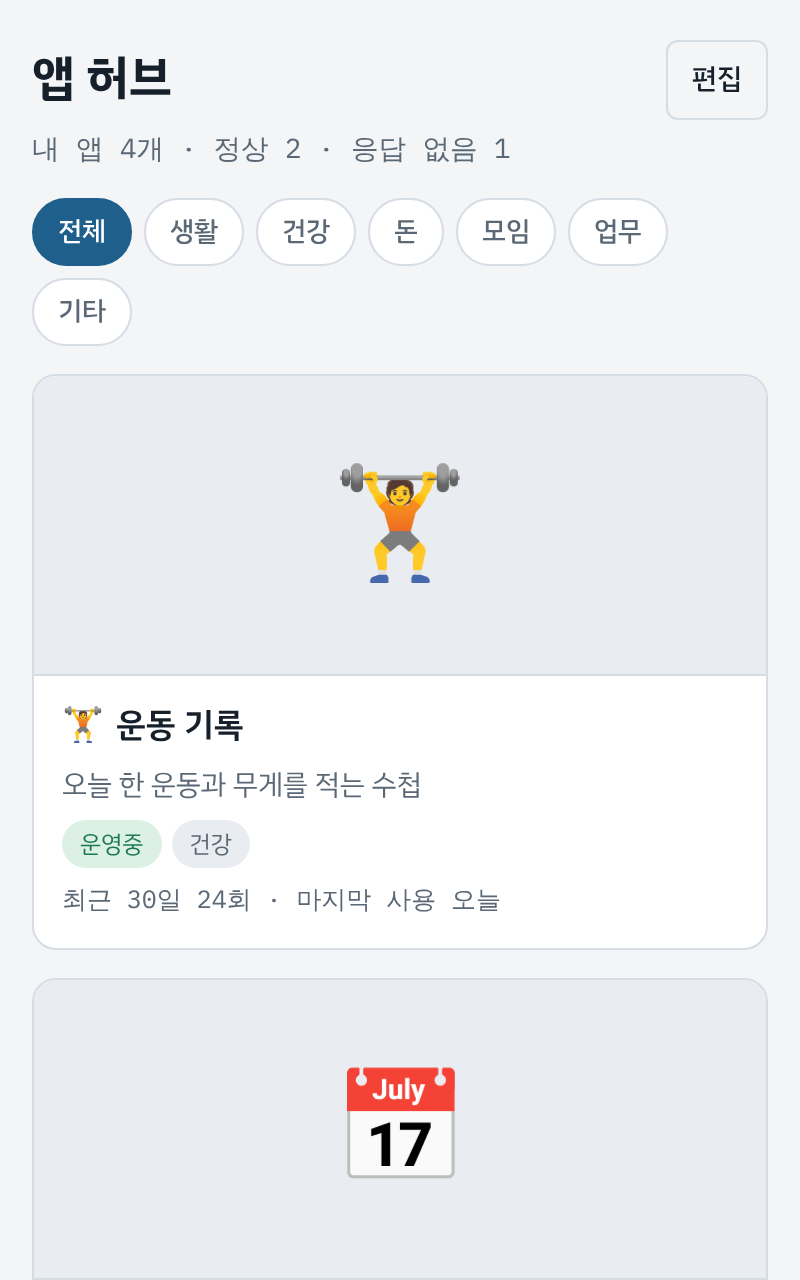
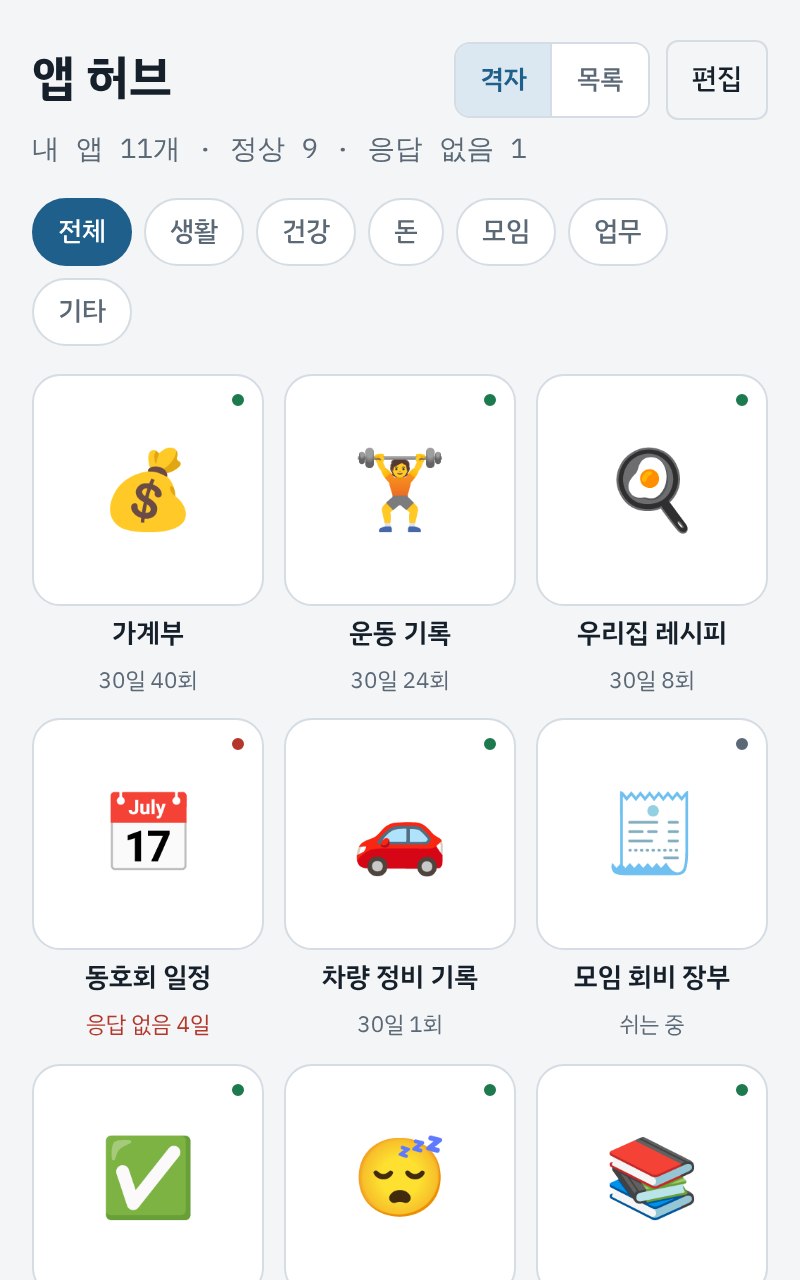
앱 3×3 격자 보기 추가(기본), 목록 보기와 전환 (#3)
* 앱 허브 만들기: 등록 API, 매일 둘러보기, 카드 화면

- POST /api/register: 같은 계정(workers.dev) 주소만 받음(다른 계정 403), 주소 정리, 같은 주소 1분에 한 번(429), 예전 앱도 '허브 준비 전'으로 등록
- 매일 08:00 KST(0 23 * * *) 등록된 앱의 app.json·health 확인. 앱당 요청 2개라 한 번에 25개까지, 오래 확인 안 한 앱부터
- 응답 100KB 제한, 리다이렉트 안 따라감, 요청마다 10초 제한, global_fetch_strictly_public
- 화면: 요약, 분류 칩, 카드(대표 화면/이모지, 배지, 사용량), 편집 암호가 있으면 숨기기·삭제·지금 확인
- 앱에서 받은 글자는 textContent로만, 그림 주소는 등록 주소 + /og.png로만
- 틀의 메모 예제와 Supabase 모드 삭제, 테스트는 node 내장 SQLite로 실제 SQL까지 확인

Claude-Session: https://claude.ai/code/session_014wdP5xSTG5kVcEFaSFodQJ

* 첫 배포 성공: app.json 운영중으로, connect에 빠진 필수 항목 추가

- Cloudflare 저장소 연결(POST /builds/workers)은 미리보기를 꺼도 previews_base_config가 필수다.
  없으면 400 Invalid request body. 이번 허브 연결에서 확인하고 고침(테스트 추가).

Claude-Session: https://claude.ai/code/session_014wdP5xSTG5kVcEFaSFodQJ

* 앱 3×3 격자 보기 추가(기본), 목록 보기와 전환

- 칸: 정사각형 대표 화면(없으면 이모지), 이름, 상태 한 줄(응답 없음 n일·허브 준비 전·쉬는 중·30일 n회), 오른쪽 위 상태 점
- 격자/목록 버튼은 제목 줄에 두어 폰 첫 화면에 9칸이 들어가게 함. 고른 방식은 기기에 기억
- 숨기기·삭제는 목록 보기에서. 칸 규칙은 view.js tileInfo(순수 함수) + 테스트

Claude-Session: https://claude.ai/code/session_014wdP5xSTG5kVcEFaSFodQJ

---------

diff --git a/web/js/app.js b/web/js/app.js
@@ -1,12 +1,14 @@
 // 앱 허브 화면: 그리기와 이벤트만 맡는다. 규칙(정렬·배지·링크)은 view.js의 순수 함수에 있다.
 // 앱에서 받은 글자(이름·설명 등)는 textContent로만 넣는다(innerHTML을 쓰지 않는다 = 자동으로 안전 처리).
 import * as api from './api.js';
-import { CATEGORIES, sortApps, filterApps, summarize, displayName, usageText, badges, linkFor } from './view.js';
+import { CATEGORIES, sortApps, filterApps, summarize, displayName, usageText, badges, linkFor, tileInfo } from './view.js';
 
 const $ = id => document.getElementById(id);
 const el = (tag, cls, text) => { const e = document.createElement(tag); if (cls) e.className = cls; if (text != null) e.textContent = text; return e; };
 
 let apps = [], canEdit = false, category = '전체', firstTime = false;
+// 보기 방식: 'grid'(3×3 격자) | 'list'(큰 카드). 이 기기에 기억한다.
+let viewMode = (() => { try { return localStorage.getItem('hub-view') || 'grid'; } catch { return 'grid'; } })();
 const status = text => { $('status').textContent = text; };
 
 function renderChips() {
@@ -94,6 +96,20 @@ function card(app) {
   return art;
 }
 
+// 격자 칸: 대표 화면(정사각형) + 이름 한 줄 + 상태 한 줄. 자세한 설명·버튼은 목록 보기에서.
+function tile(app) {
+  const href = linkFor(app);
+  const t = el(href ? 'a' : 'div', 'tile' + (app.hidden ? ' is-hidden' : ''));
+  if (href) { t.href = href; t.target = '_blank'; t.rel = 'noopener noreferrer'; }
+  const { tone, sub } = tileInfo(app);
+  const s = shot(app); s.classList.add('tile-shot');
+  const dot = el('span', 'tile-dot dot-' + tone); dot.setAttribute('aria-hidden', 'true');
+  s.append(dot);
+  t.append(s, el('span', 'tile-name', displayName(app)), el('span', 'tile-sub tone-text-' + tone, sub));
+  t.title = [displayName(app), app.summary, usageText(app)].filter(Boolean).join('\n');
+  return t;
+}
+
 function renderList() {
   const list = $('list'); list.replaceChildren();
   const shown = sortApps(filterApps(apps, category));
@@ -101,7 +117,8 @@ function renderList() {
     list.append(el('p', 'empty', apps.length ? `'${category}' 분류의 앱이 없습니다.` : '아직 등록된 앱이 없습니다. 앱이 배포되면 스스로 등록됩니다.'));
     return;
   }
-  for (const a of shown) list.append(card(a));
+  list.classList.toggle('grid3', viewMode === 'grid');
+  for (const a of shown) list.append(viewMode === 'grid' ? tile(a) : card(a));
 }
 
 function renderEdit() {
@@ -161,5 +178,17 @@ $('refreshBtn').addEventListener('click', async () => {
   await load();
 });
 
+function renderView() {
+  $('viewGrid').setAttribute('aria-pressed', String(viewMode === 'grid'));
+  $('viewList').setAttribute('aria-pressed', String(viewMode === 'list'));
+}
+for (const [id, mode] of [['viewGrid', 'grid'], ['viewList', 'list']]) {
+  $(id).addEventListener('click', () => {
+    viewMode = mode; try { localStorage.setItem('hub-view', mode); } catch { /* 기억 못 해도 이번 화면에서는 바뀐다 */ }
+    renderView(); renderList();
+  });
+}
+
 renderChips();
+renderView();
 load();

diff --git a/web/styles.css b/web/styles.css
@@ -91,3 +91,24 @@ a.card-main:focus-visible{outline:2px solid var(--accent);outline-offset:-2px}
 .tone-muted{background:transparent;color:var(--muted);border-color:var(--line)}
 .card-actions{display:flex;gap:8px;padding:0 14px 14px;flex-wrap:wrap}
 .card-actions button{flex:1 1 auto}
+
+/* ── 보기 방식(목록/격자) ── */
+.head-actions{display:flex;align-items:center;gap:8px}
+.seg{display:inline-flex;border:1px solid var(--line);border-radius:8px;overflow:hidden}
+.seg button{border:0;border-radius:0;min-height:36px;padding:4px 12px;font-size:.82rem;background:var(--surface);color:var(--muted)}
+.seg button+button{border-left:1px solid var(--line)}
+.seg button[aria-pressed="true"]{background:var(--accent-soft);color:var(--accent);font-weight:600}
+
+/* 3×3 격자: 폰(400px)에서 한 줄에 3칸 */
+.list.grid3{grid-template-columns:repeat(3, minmax(0, 1fr));gap:10px}
+.tile{display:flex;flex-direction:column;gap:4px;min-width:0;color:inherit;text-decoration:none}
+.tile.is-hidden{opacity:.55}
+.tile-shot{height:auto;aspect-ratio:1;border:1px solid var(--line);border-radius:14px;background:var(--surface)}
+.tile-shot .shot-emoji{font-size:2.4rem}
+a.tile:active .tile-shot{transform:scale(.97)}
+a.tile:focus-visible{outline:2px solid var(--accent);outline-offset:2px;border-radius:14px}
+.tile-dot{position:absolute;top:7px;right:7px;width:10px;height:10px;border-radius:50%;border:2px solid var(--surface);z-index:1}
+.dot-ok{background:var(--ok)} .dot-bad{background:var(--bad)} .dot-warn{background:var(--warn)} .dot-muted{background:var(--muted)}
+.tile-name{font-size:.84rem;font-weight:600;white-space:nowrap;overflow:hidden;text-overflow:ellipsis;text-align:center;padding:0 2px}
+.tile-sub{font-size:.7rem;white-space:nowrap;overflow:hidden;text-overflow:ellipsis;text-align:center;color:var(--muted)}
+.tone-text-bad{color:var(--bad)} .tone-text-warn{color:var(--warn)}

diff --git a/tests/view.test.js b/tests/view.test.js
@@ -1,7 +1,7 @@
 // 화면 규칙(web/js/view.js, DOM 없음). 실행: npm test
 import { test } from 'node:test';
 import assert from 'node:assert/strict';
-import { sortApps, filterApps, summarize, displayName, usageText, badges, linkFor, agoText } from '../web/js/view.js';
+import { sortApps, filterApps, summarize, displayName, usageText, badges, linkFor, agoText, tileInfo } from '../web/js/view.js';
 
 const NOW = Date.parse('2026-11-15T12:00:00Z');
 const day = n => new Date(NOW - n * 86400000).toISOString();
@@ -51,4 +51,13 @@ test('public: false면 링크를 숨긴다, https 주소만 링크', () => {
   assert.equal(linkFor(app({ public: false })), null);
   assert.equal(linkFor(app({ public: undefined })), 'https://a.t.workers.dev'); // 예전 앱(app.json 없음)
   assert.equal(linkFor(app({ url: 'javascript:alert(1)' })), null);
+});
+
+test('격자 칸: 문제가 있으면 그것을, 없으면 사용량을 한 줄로', () => {
+  assert.deepEqual(tileInfo(app(), NOW), { tone: 'ok', sub: '30일 3회' });
+  assert.deepEqual(tileInfo(app({ state: 'down', okAt: day(2.5), usage: null }), NOW), { tone: 'bad', sub: '응답 없음 3일' });
+  assert.deepEqual(tileInfo(app({ state: 'legacy', usage: null }), NOW), { tone: 'warn', sub: '허브 준비 전' });
+  assert.deepEqual(tileInfo(app({ usage: { last30d: 0, lastUsedAt: day(40) } }), NOW), { tone: 'muted', sub: '쉬는 중' });
+  assert.deepEqual(tileInfo(app({ hidden: true }), NOW), { tone: 'ok', sub: '30일 3회' }); // 숨김 표시는 칸 흐림으로만
+  assert.deepEqual(tileInfo(app({ usage: null, category: '돈' }), NOW), { tone: 'ok', sub: '돈' });
 });

diff --git a/web/index.html b/web/index.html
@@ -20,7 +20,13 @@
   <header class="head">
     <div class="head-row">
       <h1>앱 허브</h1>
-      <button type="button" id="editBtn" class="ghost">편집</button>
+      <div class="head-actions">
+        <div class="seg" role="group" aria-label="보기 방식">
+          <button type="button" id="viewGrid" aria-pressed="true">격자</button>
+          <button type="button" id="viewList" aria-pressed="false">목록</button>
+        </div>
+        <button type="button" id="editBtn" class="ghost">편집</button>
+      </div>
     </div>
     <p class="sub num" id="summary" aria-live="polite">불러오는 중</p>
   </header>
@@ -33,7 +39,7 @@
 
   <div class="edit-bar" id="editBar" hidden>
     <button type="button" id="refreshBtn" class="primary">지금 확인</button>
-    <span class="hint">매일 08:00에 자동으로 확인합니다</span>
+    <span class="hint">매일 08:00 자동 확인 · 숨기기·삭제는 목록 보기에서</span>
   </div>
 
   <nav class="chips" id="chips" aria-label="분류"></nav>

diff --git a/web/js/view.js b/web/js/view.js
@@ -73,3 +73,12 @@ export function linkFor(app) {
   if (app.public === false) return null;
   return /^https:\/\/[a-z0-9.-]+$/.test(app.url || '') ? app.url : null;
 }
+
+// 격자 칸에 쓸 값: 상태 점 색(tone)과 이름 아래 한 줄(sub). 문제가 있으면 그것을, 없으면 사용량을 보여 준다.
+//   tone: ok(정상) | bad(응답 없음) | warn(허브 준비 전) | muted(쉬는 중)
+export function tileInfo(app, now = Date.now()) {
+  const bs = badges(app, now).filter(b => b.text !== '숨김');
+  const tone = app.state === 'down' ? 'bad' : app.state === 'legacy' ? 'warn' : bs.some(b => b.text === '쉬는 중') ? 'muted' : 'ok';
+  const sub = bs.length ? bs[0].text.replace(/ \((\d+)일째\)$/, ' $1일') : app.usage ? `30일 ${app.usage.last30d}회` : (app.category || '');
+  return { tone, sub };
+}
